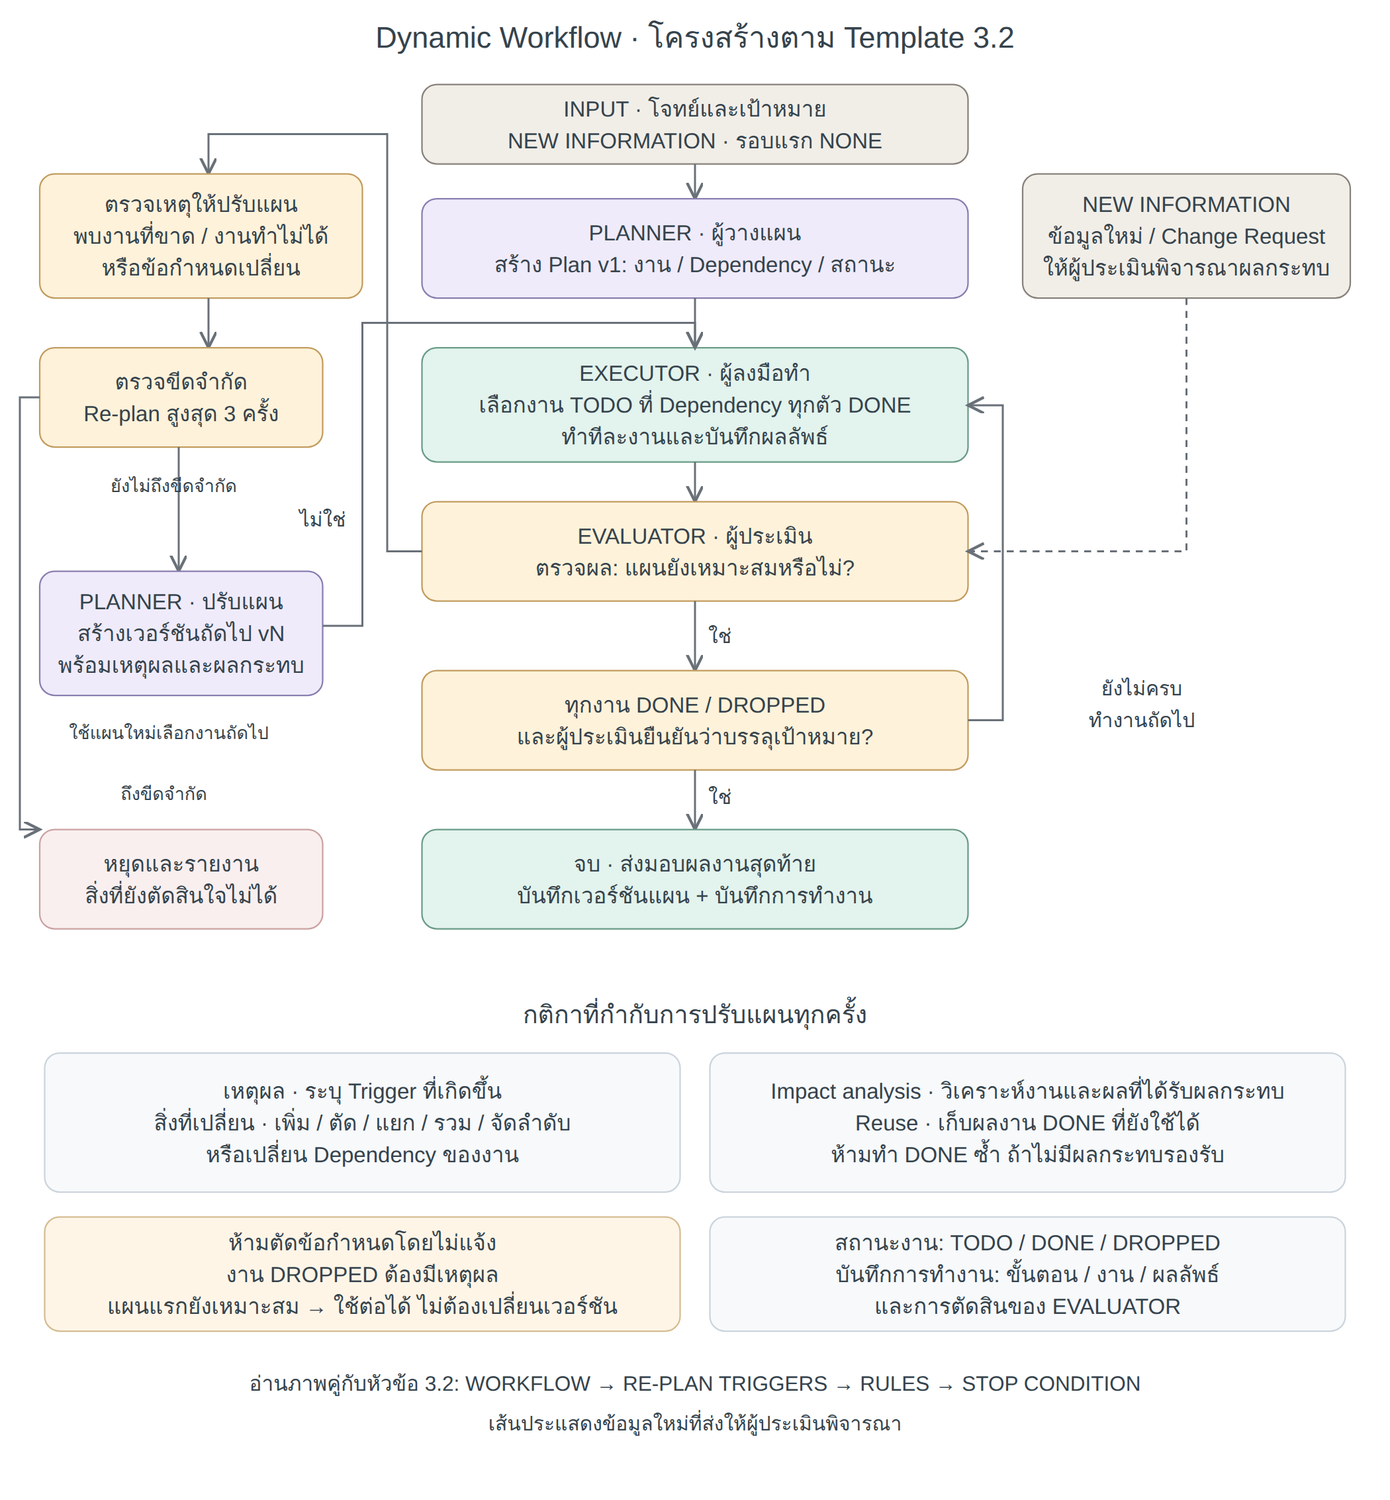
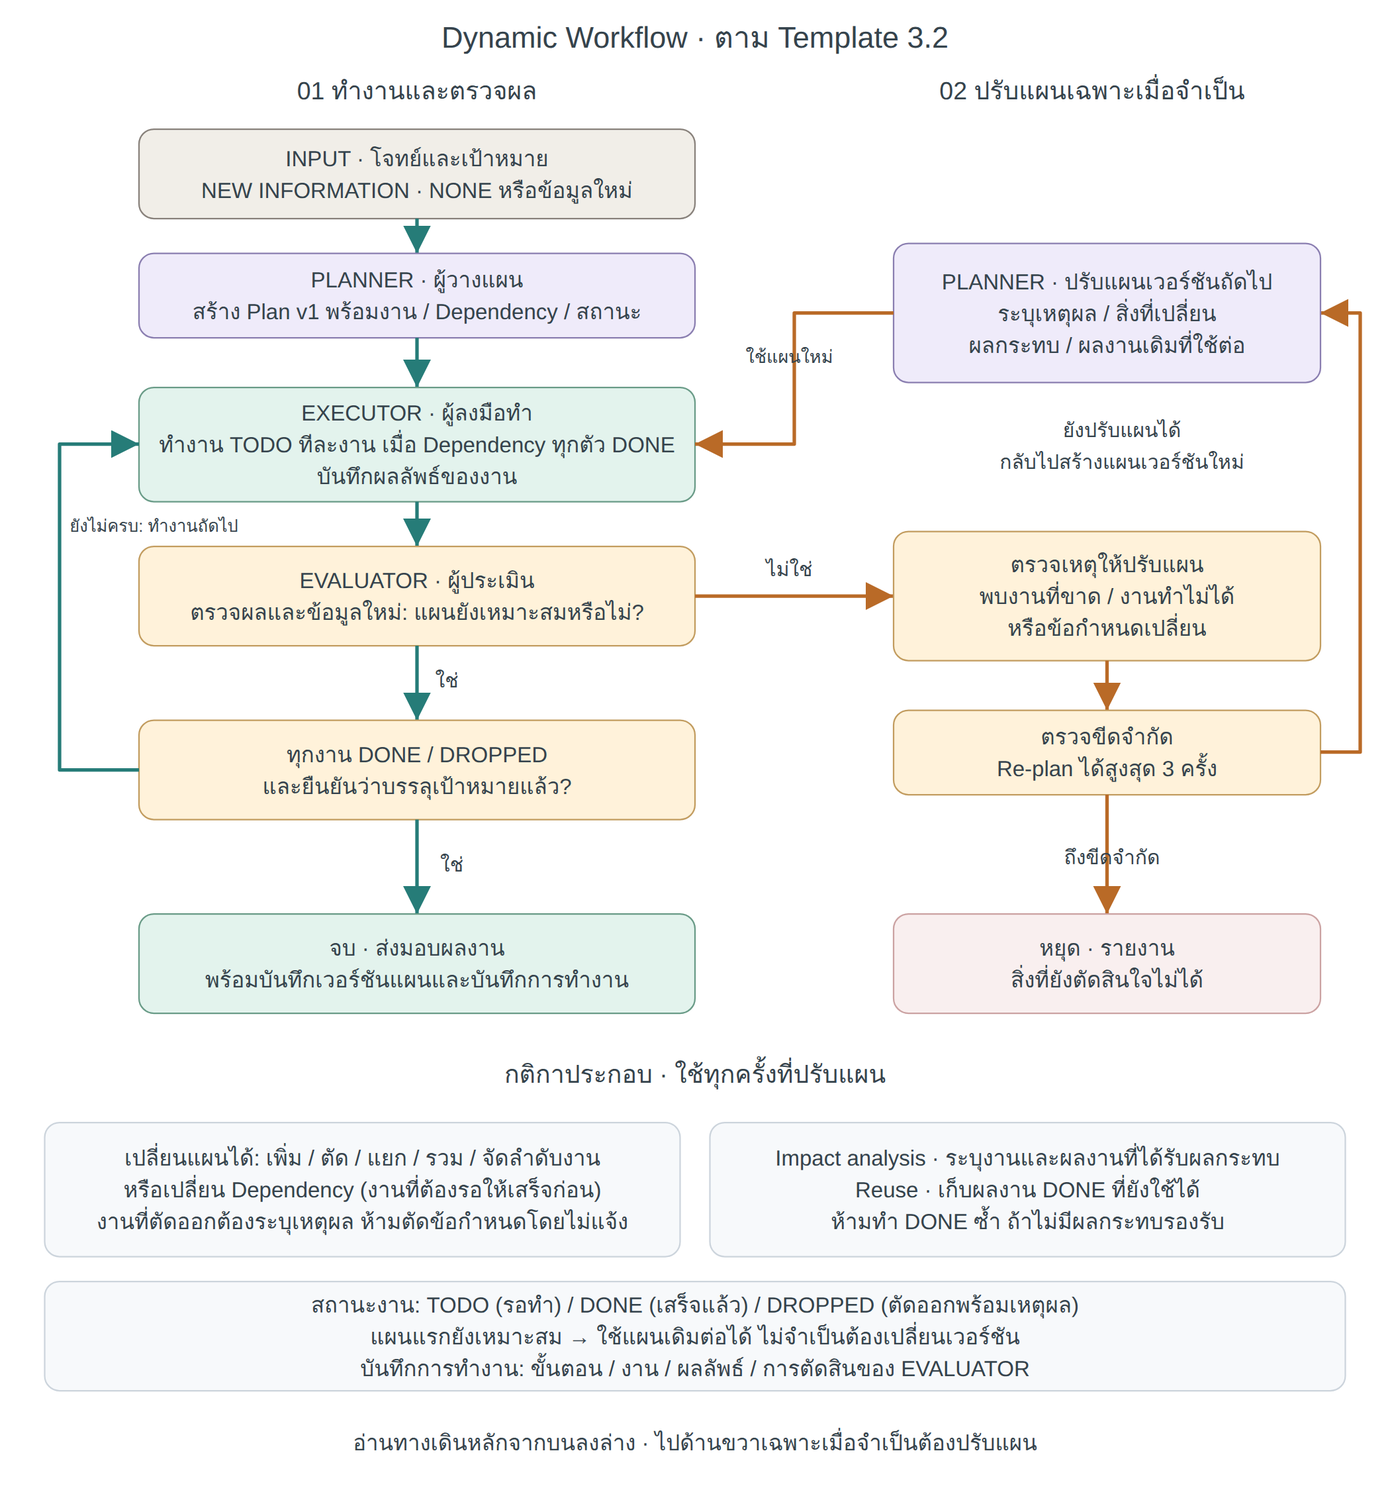
docs: simplify Dynamic diagram arrows and remove chapter four

diff --git a/Basic_AI_WORFLOW/img/render-dynamic-workflow.py b/Basic_AI_WORFLOW/img/render-dynamic-workflow.py
@@ -2,43 +2,44 @@ from pathlib import Path
 from html import escape
 from playwright.sync_api import sync_playwright
 BASE=Path(__file__).resolve().parent
-parts=['''<svg xmlns="http://www.w3.org/2000/svg" width="1400" height="1510" viewBox="0 0 1400 1510"><defs><marker id="arrow" markerWidth="10" markerHeight="10" refX="8" refY="4" orient="auto"><path d="M0,0 L8,4 L0,8" fill="none" stroke="#697078" stroke-width="1.4"/></marker></defs><rect width="1400" height="1510" fill="white"/><style>text{font-family:'Noto Sans Thai',Tahoma,sans-serif;fill:#35434c}</style>''']
+parts=['''<svg xmlns="http://www.w3.org/2000/svg" width="1400" height="1510" viewBox="0 0 1400 1510"><defs><marker id="arrow" markerWidth="10" markerHeight="10" refX="8" refY="4" orient="auto"><path d="M0,0 L8,4 L0,8 Z" fill="#526577" stroke="#526577" stroke-width="1"/></marker></defs><rect width="1400" height="1510" fill="white"/><style>text{font-family:'Noto Sans Thai',Tahoma,sans-serif;fill:#35434c}</style>''']
 def text(x,y,lines,size=22):
  for i,line in enumerate(lines):parts.append(f'<text x="{x}" y="{y+i*32}" text-anchor="middle" font-size="{size}">{escape(line)}</text>')
 def box(x,y,w,h,lines,fill='#f1eee8',stroke='#88817b'):
  parts.append(f'<rect x="{x}" y="{y}" width="{w}" height="{h}" rx="15" fill="{fill}" stroke="{stroke}" stroke-width="1.5"/>');text(x+w/2,y+(h-(len(lines)-1)*32)/2+8,lines)
-def arrow(d,dashed=False):parts.append(f'<path d="{d}" fill="none" stroke="#697078" stroke-width="2" marker-end="url(#arrow)"'+(' stroke-dasharray="7 6"' if dashed else '')+'/>')
-text(700,48,['Dynamic Workflow · โครงสร้างตาม Template 3.2'],30)
-box(425,85,550,80,['INPUT · โจทย์และเป้าหมาย','NEW INFORMATION · รอบแรก NONE'])
-arrow('M700 165 V200')
-box(425,200,550,100,['PLANNER · ผู้วางแผน','สร้าง Plan v1: งาน / Dependency / สถานะ'],'#efebfa','#8a7eb0')
-arrow('M700 300 V350')
-box(425,350,550,115,['EXECUTOR · ผู้ลงมือทำ','เลือกงาน TODO ที่ Dependency ทุกตัว DONE','ทำทีละงานและบันทึกผลลัพธ์'],'#e3f3ed','#699b87')
-arrow('M700 465 V505')
-box(425,505,550,100,['EVALUATOR · ผู้ประเมิน','ตรวจผล: แผนยังเหมาะสมหรือไม่?'],'#fff2da','#c29c5f')
-arrow('M700 605 V675');text(725,647,['ใช่'],20)
-box(425,675,550,100,['ทุกงาน DONE / DROPPED','และผู้ประเมินยืนยันว่าบรรลุเป้าหมาย?'],'#fff2da','#c29c5f')
-arrow('M700 775 V835');text(725,809,['ใช่'],20)
-box(425,835,550,100,['จบ · ส่งมอบผลงานสุดท้าย','บันทึกเวอร์ชันแผน + บันทึกการทำงาน'],'#e3f3ed','#699b87')
-arrow('M975 725 H1010 V408 H975');text(1150,700,['ยังไม่ครบ','ทำงานถัดไป'],20)
-arrow('M425 555 H390 V135 H210 V175');text(325,530,['ไม่ใช่'],20)
-box(40,175,325,125,['ตรวจเหตุให้ปรับแผน','พบงานที่ขาด / งานทำไม่ได้','หรือข้อกำหนดเปลี่ยน'],'#fff2da','#c29c5f')
-arrow('M210 300 V350')
-box(40,350,285,100,['ตรวจขีดจำกัด','Re-plan สูงสุด 3 ครั้ง'],'#fff2da','#c29c5f')
-arrow('M180 450 V575');text(175,495,['ยังไม่ถึงขีดจำกัด'],18)
-box(40,575,285,125,['PLANNER · ปรับแผน','สร้างเวอร์ชันถัดไป vN','พร้อมเหตุผลและผลกระทบ'],'#efebfa','#8a7eb0')
-arrow('M325 630 H365 V325 H700 V350');text(170,744,['ใช้แผนใหม่เลือกงานถัดไป'],18)
-arrow('M40 400 H20 V835 H40');text(165,805,['ถึงขีดจำกัด'],18)
-box(40,835,285,100,['หยุดและรายงาน','สิ่งที่ยังตัดสินใจไม่ได้'],'#f9efef','#cba2a2')
-box(1030,175,330,125,['NEW INFORMATION','ข้อมูลใหม่ / Change Request','ให้ผู้ประเมินพิจารณาผลกระทบ'],'#f1eee8','#88817b')
-arrow('M1195 300 V555 H975',True)
-text(700,1030,['กติกาที่กำกับการปรับแผนทุกครั้ง'],25)
-box(45,1060,640,140,['เหตุผล · ระบุ Trigger ที่เกิดขึ้น','สิ่งที่เปลี่ยน · เพิ่ม / ตัด / แยก / รวม / จัดลำดับ','หรือเปลี่ยน Dependency ของงาน'],'#f7f9fb','#ccd4dc')
-box(715,1060,640,140,['Impact analysis · วิเคราะห์งานและผลที่ได้รับผลกระทบ','Reuse · เก็บผลงาน DONE ที่ยังใช้ได้','ห้ามทำ DONE ซ้ำ ถ้าไม่มีผลกระทบรองรับ'],'#f7f9fb','#ccd4dc')
-box(45,1225,640,115,['ห้ามตัดข้อกำหนดโดยไม่แจ้ง','งาน DROPPED ต้องมีเหตุผล','แผนแรกยังเหมาะสม → ใช้ต่อได้ ไม่ต้องเปลี่ยนเวอร์ชัน'],'#fff5e7','#d5bc91')
-box(715,1225,640,115,['สถานะงาน: TODO / DONE / DROPPED','บันทึกการทำงาน: ขั้นตอน / งาน / ผลลัพธ์','และการตัดสินของ EVALUATOR'],'#f7f9fb','#ccd4dc')
-text(700,1400,['อ่านภาพคู่กับหัวข้อ 3.2: WORKFLOW → RE-PLAN TRIGGERS → RULES → STOP CONDITION'],21)
-text(700,1440,['เส้นประแสดงข้อมูลใหม่ที่ส่งให้ผู้ประเมินพิจารณา'],20)
+def arrow(d,dashed=False,color='#267c78'):
+ marker='a'+str(len(parts))
+ parts.append(f'<defs><marker id="{marker}" markerWidth="9" markerHeight="9" refX="8" refY="4" orient="auto"><path d="M0,0 L8,4 L0,8 Z" fill="{color}"/></marker></defs><path d="{d}" fill="none" stroke="{color}" stroke-width="3.5" stroke-linejoin="round" marker-end="url(#{marker})"/>')
+text(700,48,['Dynamic Workflow · ตาม Template 3.2'],30)
+text(420,100,['01  ทำงานและตรวจผล'],25)
+text(1100,100,['02  ปรับแผนเฉพาะเมื่อจำเป็น'],25)
+box(140,130,560,90,['INPUT · โจทย์และเป้าหมาย','NEW INFORMATION · NONE หรือข้อมูลใหม่'])
+arrow('M420 220 V255')
+box(140,255,560,85,['PLANNER · ผู้วางแผน','สร้าง Plan v1 พร้อมงาน / Dependency / สถานะ'],'#efebfa','#8a7eb0')
+arrow('M420 340 V390')
+box(140,390,560,115,['EXECUTOR · ผู้ลงมือทำ','ทำงาน TODO ทีละงาน เมื่อ Dependency ทุกตัว DONE','บันทึกผลลัพธ์ของงาน'],'#e3f3ed','#699b87')
+arrow('M420 505 V550')
+box(140,550,560,100,['EVALUATOR · ผู้ประเมิน','ตรวจผลและข้อมูลใหม่: แผนยังเหมาะสมหรือไม่?'],'#fff2da','#c29c5f')
+arrow('M420 650 V725');text(450,692,['ใช่'],20)
+box(140,725,560,100,['ทุกงาน DONE / DROPPED','และยืนยันว่าบรรลุเป้าหมายแล้ว?'],'#fff2da','#c29c5f')
+arrow('M140 775 H60 V447 H140');text(155,535,['ยังไม่ครบ: ทำงานถัดไป'],17)
+arrow('M420 825 V920');text(455,877,['ใช่'],20)
+box(140,920,560,100,['จบ · ส่งมอบผลงาน','พร้อมบันทึกเวอร์ชันแผนและบันทึกการทำงาน'],'#e3f3ed','#699b87')
+arrow('M700 600 H900',color='#b96a27');text(795,580,['ไม่ใช่'],20)
+box(900,535,430,130,['ตรวจเหตุให้ปรับแผน','พบงานที่ขาด / งานทำไม่ได้','หรือข้อกำหนดเปลี่ยน'],'#fff2da','#c29c5f')
+arrow('M1115 665 V715',color='#b96a27')
+box(900,715,430,85,['ตรวจขีดจำกัด','Re-plan ได้สูงสุด 3 ครั้ง'],'#fff2da','#c29c5f')
+arrow('M1330 757 H1370 V315 H1330',color='#b96a27')
+text(1130,440,['ยังปรับแผนได้','กลับไปสร้างแผนเวอร์ชันใหม่'],20)
+box(900,245,430,140,['PLANNER · ปรับแผนเวอร์ชันถัดไป','ระบุเหตุผล / สิ่งที่เปลี่ยน','ผลกระทบ / ผลงานเดิมที่ใช้ต่อ'],'#efebfa','#8a7eb0')
+arrow('M900 315 H800 V447 H700',color='#b96a27');text(795,365,['ใช้แผนใหม่'],18)
+arrow('M1115 800 V920',color='#b96a27');text(1120,870,['ถึงขีดจำกัด'],20)
+box(900,920,430,100,['หยุด · รายงาน','สิ่งที่ยังตัดสินใจไม่ได้'],'#f9efef','#cba2a2')
+text(700,1090,['กติกาประกอบ · ใช้ทุกครั้งที่ปรับแผน'],25)
+box(45,1130,640,135,['เปลี่ยนแผนได้: เพิ่ม / ตัด / แยก / รวม / จัดลำดับงาน','หรือเปลี่ยน Dependency (งานที่ต้องรอให้เสร็จก่อน)','งานที่ตัดออกต้องระบุเหตุผล ห้ามตัดข้อกำหนดโดยไม่แจ้ง'],'#f7f9fb','#ccd4dc')
+box(715,1130,640,135,['Impact analysis · ระบุงานและผลงานที่ได้รับผลกระทบ','Reuse · เก็บผลงาน DONE ที่ยังใช้ได้','ห้ามทำ DONE ซ้ำ ถ้าไม่มีผลกระทบรองรับ'],'#f7f9fb','#ccd4dc')
+box(45,1290,1310,110,['สถานะงาน: TODO (รอทำ) / DONE (เสร็จแล้ว) / DROPPED (ตัดออกพร้อมเหตุผล)','แผนแรกยังเหมาะสม → ใช้แผนเดิมต่อได้ ไม่จำเป็นต้องเปลี่ยนเวอร์ชัน','บันทึกการทำงาน: ขั้นตอน / งาน / ผลลัพธ์ / การตัดสินของ EVALUATOR'],'#f7f9fb','#ccd4dc')
+text(700,1460,['อ่านทางเดินหลักจากบนลงล่าง · ไปด้านขวาเฉพาะเมื่อจำเป็นต้องปรับแผน'],22)
 parts.append('</svg>');svg=''.join(parts);(BASE/'dynamic-workflow-template.svg').write_text(svg)
 with sync_playwright() as pw:
  b=pw.chromium.launch(executable_path='/opt/ms-playwright/chromium-1234/chrome-linux64/chrome',args=['--no-sandbox']);p=b.new_page(viewport={'width':1400,'height':1510},device_scale_factor=1.5);p.set_content('<html><meta charset="utf-8"><style>body{margin:0}</style>'+svg+'</html>');p.evaluate('document.fonts.ready');p.locator('svg').screenshot(path=str(BASE/'dynamic-workflow-template.png'));b.close()

diff --git a/Basic_AI_WORFLOW/readme.md b/Basic_AI_WORFLOW/readme.md
@@ -975,7 +975,7 @@ Dynamic Workflow ใช้ Prompt กำหนดสามหน้าที่:
 
 ![Dynamic Workflow ตาม Template 3.2: วางแผน ทำทีละงาน ประเมิน ปรับแผน และตรวจเงื่อนไขหยุด](img/dynamic-workflow-template.png)
 
-อ่านภาพจาก INPUT → PLANNER → EXECUTOR → EVALUATOR หากแผนยังเหมาะสมให้ตรวจเงื่อนไขจบหรือทำงานถัดไป หากต้องปรับแผนให้ตรวจ Trigger และขีดจำกัดก่อนสร้างเวอร์ชันใหม่ ส่วนข้อมูลใหม่ส่งให้ EVALUATOR พิจารณาผลกระทบ กติกาด้านล่างตรงกับ RE-PLAN RULES และ CONSTRAINTS ในข้อ 3.2
+อ่านส่วนซ้ายจากบนลงล่างตามลูกศรสีเขียว: วางแผน → ทำงาน → ประเมิน → ตรวจเงื่อนไขจบ หากแผนไม่เหมาะสมจึงตามลูกศรสีส้มไปส่วนขวา เพื่อตรวจเหตุและขีดจำกัดก่อนปรับแผนแล้วกลับมาทำงาน ส่วนกติกาด้านล่างตรงกับ RE-PLAN RULES และ CONSTRAINTS ในข้อ 3.2
 
 [เปิดภาพ SVG](img/dynamic-workflow-template.svg)
 
@@ -1049,40 +1049,6 @@ Plan vN
 3. ผลงานส่งมอบสุดท้าย
 ```
 
-## บทที่ 4 เปรียบเทียบและฝึกออกแบบ Prompt
-
-### เลือกกลไกให้ตรงกับวิธีทำงานที่ต้องการ
-
-| ประเด็น | Loop | Graph | Dynamic Workflow |
-| --- | --- | --- | --- |
-| สิ่งที่ผู้เรียนออกแบบใน Prompt | วงจรสร้าง ตรวจ และแก้ | งานย่อย การส่งต่อ และการรวม | การวางแผน ประเมิน และปรับแผน |
-| ส่วนที่ต้องเขียนให้ชัด | เกณฑ์ หลักฐาน และเงื่อนไขหยุด | Dependency, Output และกติการวมงาน | เหตุให้ปรับแผน Impact และ Reuse |
-| บันทึกที่ใช้ตรวจวิธีทำงาน | Iteration Log | Execution Trace | Plan Version Log และบันทึกการทำงาน |
-| เหมาะเมื่อ | ต้องตรวจและปรับผลงานตามเกณฑ์ | มีหลายส่วนที่ต้องประกอบอย่างสอดคล้อง | รายการงานอาจเปลี่ยนตามสิ่งที่ค้นพบ |
-
-ทั้งสามรูปแบบใช้กับโจทย์ทั้งสามข้อได้ การเลือกเริ่มจากลักษณะงานและสิ่งที่ต้องควบคุม และสามารถใช้ร่วมกันได้ เช่น ให้ Node หนึ่งของ Graph ใช้ Loop ตรวจผลงาน หรือให้ Dynamic ปรับแผนที่มี Dependency ระหว่างงาน
-
-### เทียบโจทย์เดียวกันผ่านหลักฐานในบทเรียน
-
-| โจทย์ | Loop | Graph | Dynamic Workflow |
-| --- | --- | --- | --- |
-| จองห้องประชุม | Critic รายงานผ่านในรอบแรก | แยกตรรกะ หน้าจอ และการทดสอบก่อนรวม | ทำตามงาน T1–T4 ในแผนแรก |
-| เบิกค่าใช้จ่าย | ตรวจเอกสารย้อนกับข้อมูลสัมภาษณ์ | ใช้ N1b เก็บข้อขัดแย้งและรวมเอกสารกับ Mockup | วางงานวิเคราะห์ สร้างแบบจำลอง และตรวจผล |
-| คลินิกหลัง Change Request | ตรวจพบส่วนที่ขาด แล้วแก้ตามเกณฑ์ | ทำ N1/N3/N4/N5 รุ่นใหม่และใช้ N2 เดิม | เพิ่ม Plan v3 พร้อมอธิบาย Impact และ Reuse |
-
-ให้อ่านทั้งผลงานและบันทึกกระบวนการ เพื่อดูว่า Prompt ทำให้ AI ตัดสินใจทำงานต่ออย่างไร จำนวนรอบ จำนวน Node และจำนวนเวอร์ชันแผนเป็นคนละหน่วย จึงใช้เทียบปริมาณงานโดยตรงไม่ได้
-
-### ฝึกเขียน Prompt ด้วยตนเอง
-
-1. เลือกหนึ่งโจทย์ คัดข้อมูล ผลงานที่ต้องส่ง และเกณฑ์ไว้ให้ครบ แล้วเติม Template ทั้งสามแบบ
-2. สำหรับ Loop ระบุว่าแต่ละเกณฑ์ต้องใช้หลักฐานใด และเมื่อไม่ผ่านจะให้แก้อะไร
-3. สำหรับ Graph ระบุผู้รับผิดชอบแต่ละเกณฑ์ในตารางงาน และตรวจว่ากติกาตอนรวมป้องกันความไม่สอดคล้องได้อย่างไร
-4. สำหรับ Dynamic ระบุเหตุที่ต้องปรับแผน และรูปแบบที่ใช้รายงานผลกระทบกับงานเดิม
-5. ใช้ Change Request ของคลินิกเปรียบเทียบว่าทั้งสาม Prompt กำหนดให้ทำงานซ้ำและใช้ผลเดิมต่อแตกต่างกันอย่างไร
-
-ก่อนนำ Prompt ไปใช้ ตรวจว่าเติมช่องว่างครบ เกณฑ์ครอบคลุมโจทย์ เครื่องมือรองรับวิธีตรวจที่ขอ และมีเงื่อนไขหยุดที่รายงานงานค้างได้ หากทดลองใหม่ให้เก็บหลักฐานของรอบใหม่แยกจากผลเดิม
-
-<a id="evidence"></a>
 ## หลักฐานและข้อจำกัดของผลทดลอง
 
 บทที่ 1 ข้อ 1.4 ใช้ผลรันใหม่ของ Loop ครบทั้งสามโจทย์จาก Template แบบพารามิเตอร์ รวม Change Request ของคลินิก ส่วนบท Graph ข้อ 2.4 ใช้ผลทดลองรอบใหม่ครบสามโจทย์ รวม Mockup และ Change Request ของคลินิก โดยเป็นการจำลองบทบาทในบทสนทนาเดียวและตรวจเครื่องมือจริง ส่วนบท Dynamic คงภาพและ Template ในข้อ 3.1–3.2 โดยนำตัวอย่างและผลเดิมในข้อ 3.3–3.6 ออกจากบทแล้ว ยังไม่มีผลรันใหม่ของ Dynamic คำว่า Critic หรือ Evaluator ให้ผ่านจึงต้องอ่านคู่กับ Trace และหลักฐานของแต่ละรอบ ส่วนคะแนนด้านล่างมาจากตัวตรวจภายหลังของการทดลองเดิม ไม่ใช่คะแนนรอบใหม่ในข้อ 1.4
